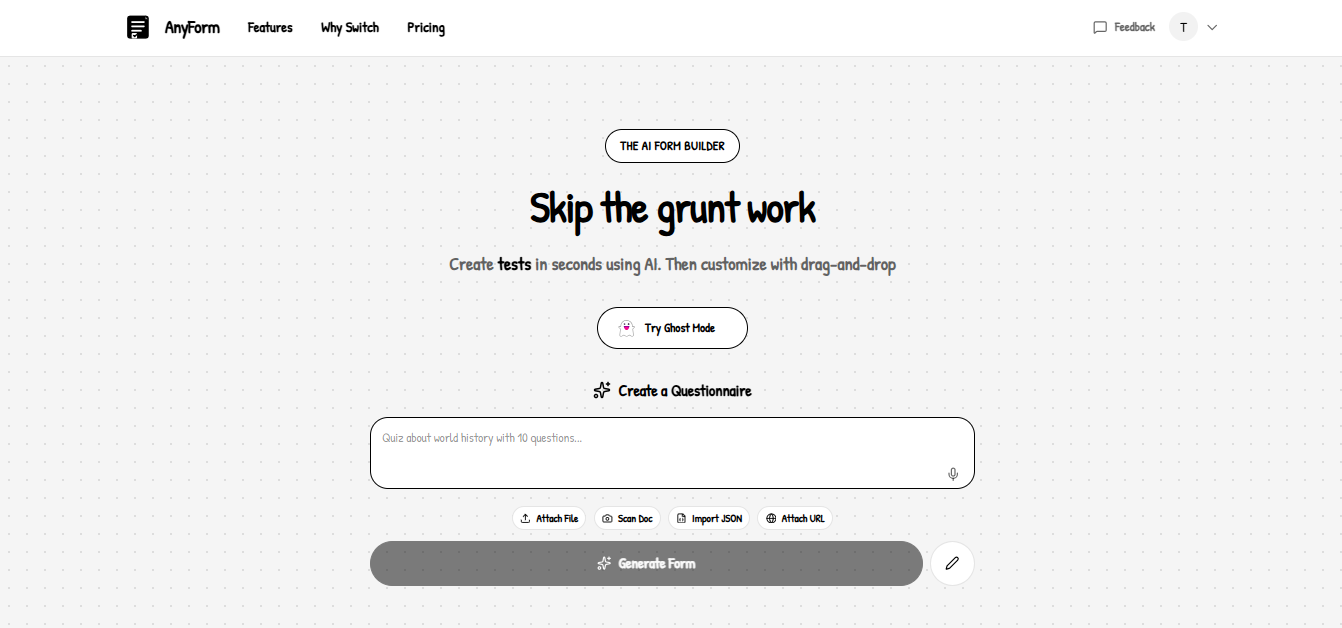
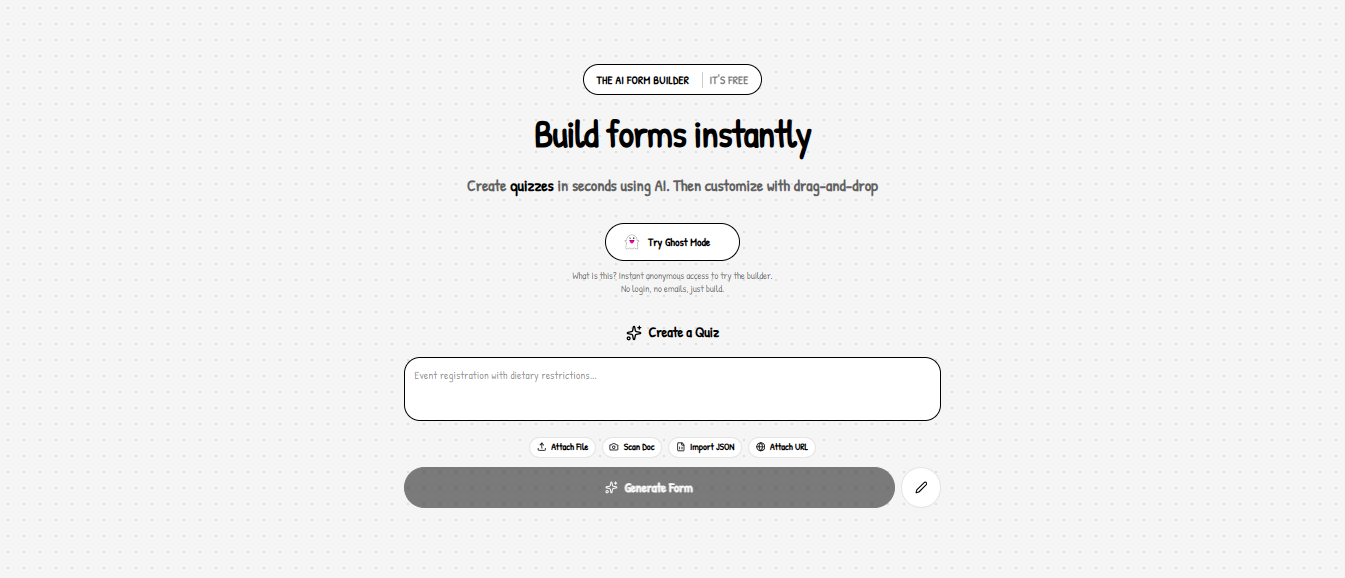
changing  og-image preview image

diff --git a/src/app/page.tsx b/src/app/page.tsx
@@ -276,7 +276,7 @@ export default function Home() {
             </div>
 
             <h1 className="text-4xl sm:text-5xl font-bold tracking-tight text-black mb-6 leading-tight">
-              Skip the grunt work
+             Build forms instantly
             </h1>
 
             <AnimatedLandingDescription />
